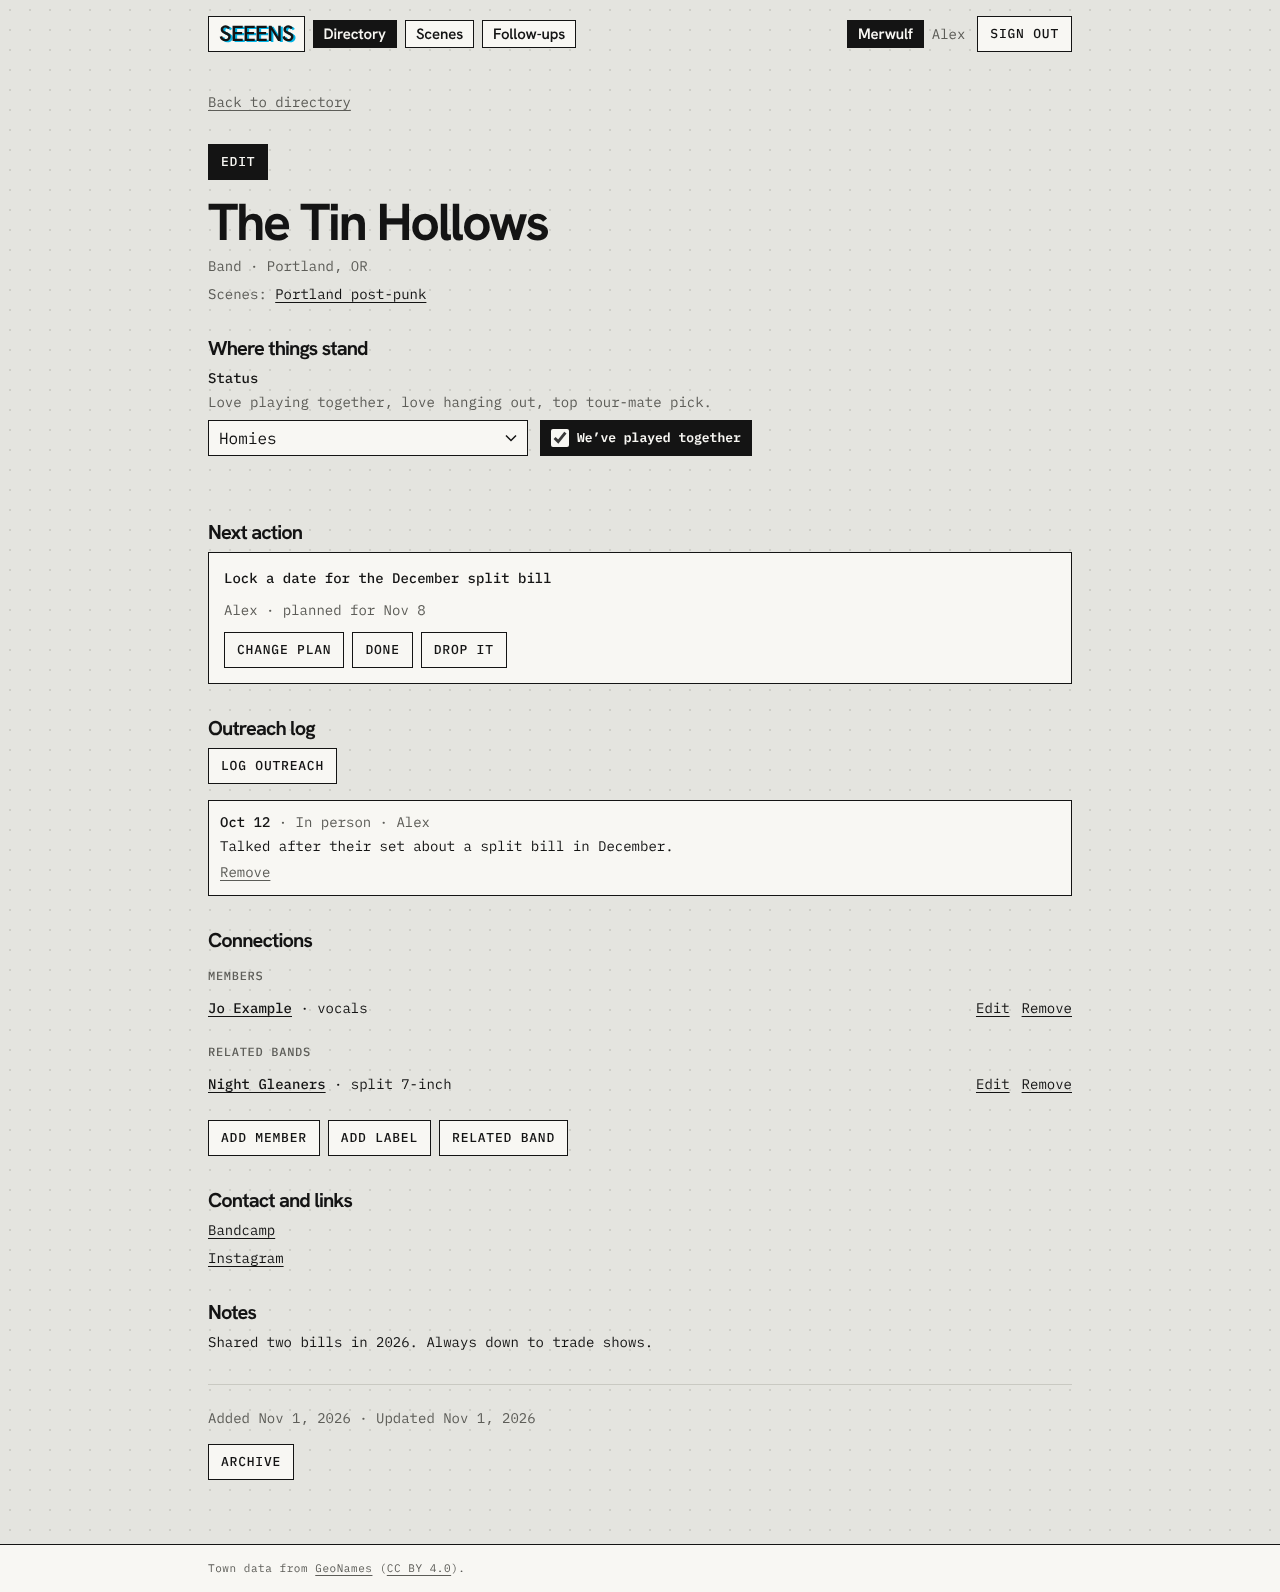
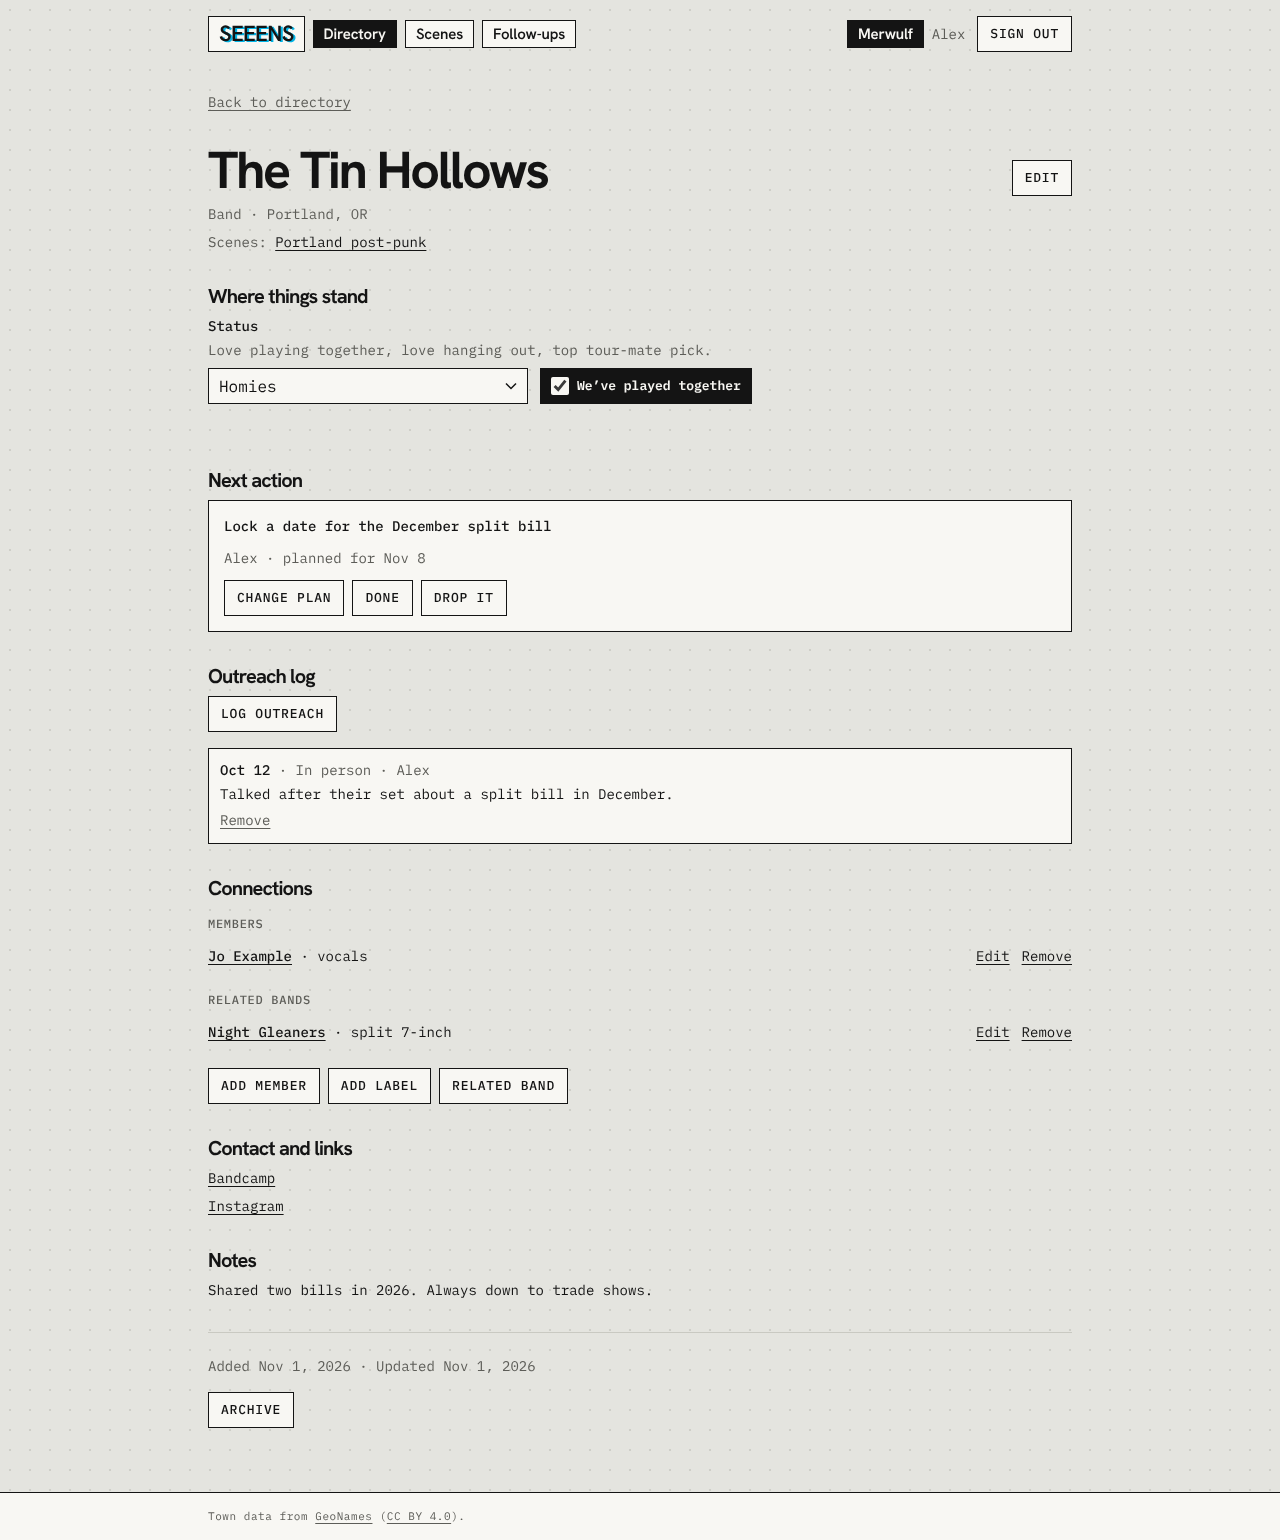
Link types with URL detection; Edit on the title row
- Link rows are URL, Link type, and (for Other) Label. Types: Website,
  Instagram, Bandcamp, Subvert, Spotify, YouTube, SoundCloud, Other.
  The type fills in from the URL until someone picks one.
- Labels stay plain text in the database: known names map to their type
  in any case, anything else opens as Other with its text kept. No
  migration; export unchanged. Unit tests cover detection and mapping.
- Edit moves to the right of the title in the secondary style, like the
  Directory and Scenes headers.

Claude-Session: https://claude.ai/code/session_01SMP6NnJD4WfxjNFgksjBuR

diff --git a/src/components/connection-form.tsx b/src/components/connection-form.tsx
@@ -5,6 +5,7 @@ import { unstable_rethrow } from "next/navigation";
 import Link from "next/link";
 import { PlaceField } from "@/components/place-field";
 import { Combobox } from "@/components/combobox";
+import { LINK_TYPES, detectLinkType, splitLinkLabel, type LinkType } from "@/lib/connections/link-types";
 import { useActionState, useState } from "react";
 import { readForm, type ConnectionFormState, type ConnectionFormValues } from "@/lib/connections/form";
 import {
@@ -82,8 +83,14 @@ function FormBody({
 }) {
   const { values: v, errors } = state;
   const [links, setLinks] = useState(() =>
-    (v.links.length ? v.links : [{ label: "", url: "" }]).map((l, i) => ({ ...l, key: i })),
+    (v.links.length ? v.links : [{ label: "", url: "" }]).map((l, i) => {
+      const { type, custom } = splitLinkLabel(l.label);
+      // Untyped links pick up a type from their URL until someone chooses one.
+      return { key: i, url: l.url, type: type || detectLinkType(l.url) || "", custom, auto: !type };
+    }),
   );
+  const updateLink = (key: number, patch: Partial<(typeof links)[number]>) =>
+    setLinks((ls) => ls.map((l) => (l.key === key ? { ...l, ...patch } : l)));
   const [nextKey, setNextKey] = useState(links.length);
   const [kind, setKind] = useState(v.kind === "person" ? "person" : "group");
   const [isUs, setIsUs] = useState(v.isUs);
@@ -285,29 +292,59 @@ function FormBody({
           <legend className="text-sm font-medium">Links</legend>
           {links.map((link, i) => {
             const err = errors.linkUrls?.[i];
+            const other = link.type === "Other";
+            const n = <span className="sr-only"> for link {i + 1}</span>;
             return (
-              <div key={link.key} className="panel grid gap-2 p-3 sm:grid-cols-[1fr_2fr_auto] sm:items-end">
-                <Field id={`c-link_label_${link.key}`} label={`Link ${i + 1} label`}>
-                  <input {...noAutofill}
-                    id={`c-link_label_${link.key}`}
-                    name="link_label"
-                    defaultValue={link.label}
-                    placeholder="Bandcamp"
-                    className="field"
-                  />
-                </Field>
-                <Field id={`c-link_url_${link.key}`} label={`Link ${i + 1} URL`} error={err}>
+              <div
+                key={link.key}
+                className={`panel grid gap-2 p-3 sm:items-end ${other ? "sm:grid-cols-[2fr_1fr_1fr_auto]" : "sm:grid-cols-[2fr_1fr_auto]"}`}
+              >
+                <Field id={`c-link_url_${link.key}`} label={<>URL{n}</>} error={err}>
                   <input {...noAutofill}
                     id={`c-link_url_${link.key}`}
                     name="link_url"
                     type="url"
                     inputMode="url"
-                    defaultValue={link.url}
+                    value={link.url}
+                    onChange={(e) => {
+                      const url = e.target.value;
+                      updateLink(link.key, link.auto ? { url, type: detectLinkType(url) ?? "" } : { url });
+                    }}
                     placeholder="yourband.bandcamp.com"
                     className="field"
                     {...invalid(`c-link_url_${link.key}`, err)}
                   />
                 </Field>
+                <Field id={`c-link_type_${link.key}`} label={<>Link type{n}</>}>
+                  <select
+                    id={`c-link_type_${link.key}`}
+                    name="link_type"
+                    value={link.type}
+                    onChange={(e) => updateLink(link.key, { type: e.target.value as LinkType | "", auto: false })}
+                    className="field"
+                  >
+                    <option value="">Choose one</option>
+                    {LINK_TYPES.map((t) => (
+                      <option key={t} value={t}>
+                        {t}
+                      </option>
+                    ))}
+                  </select>
+                </Field>
+                {other ? (
+                  <Field id={`c-link_label_${link.key}`} label={<>Label{n}</>}>
+                    <input {...noAutofill}
+                      id={`c-link_label_${link.key}`}
+                      name="link_label"
+                      value={link.custom}
+                      onChange={(e) => updateLink(link.key, { custom: e.target.value })}
+                      placeholder="Merch store"
+                      className="field"
+                    />
+                  </Field>
+                ) : (
+                  <input type="hidden" name="link_label" value="" />
+                )}
                 <button
                   type="button"
                   className="button-secondary"
@@ -323,7 +360,7 @@ function FormBody({
             type="button"
             className="button-secondary self-start"
             onClick={() => {
-              setLinks((ls) => [...ls, { label: "", url: "", key: nextKey }]);
+              setLinks((ls) => [...ls, { key: nextKey, url: "", type: "", custom: "", auto: true }]);
               setNextKey((k) => k + 1);
             }}
           >
@@ -388,7 +425,7 @@ function Field({
   children,
 }: {
   id: string;
-  label: string;
+  label: React.ReactNode;
   hint?: string;
   error?: string;
   children: React.ReactNode;

diff --git a/src/lib/connections/link-types.ts b/src/lib/connections/link-types.ts
@@ -1,0 +1,53 @@
+// Link types are a fixed list in the app; the database keeps plain label
+// text, so adding a type needs no migration. "Other" carries its own label.
+export const LINK_TYPES = [
+  "Website",
+  "Instagram",
+  "Bandcamp",
+  "Subvert",
+  "Spotify",
+  "YouTube",
+  "SoundCloud",
+  "Other",
+] as const;
+export type LinkType = (typeof LINK_TYPES)[number];
+
+const HOSTS: [RegExp, LinkType][] = [
+  [/(^|\.)instagram\.com$/, "Instagram"],
+  [/(^|\.)bandcamp\.com$/, "Bandcamp"],
+  [/(^|\.)subvert\.fm$/, "Subvert"],
+  [/(^|\.)spotify\.com$/, "Spotify"],
+  [/(^|\.)(youtube\.com|youtu\.be)$/, "YouTube"],
+  [/(^|\.)soundcloud\.com$/, "SoundCloud"],
+];
+
+// The type a URL most likely is, or null while it doesn't look like one yet.
+export function detectLinkType(raw: string): LinkType | null {
+  const text = raw.trim();
+  if (!text) return null;
+  let host: string;
+  try {
+    host = new URL(/^[a-z][a-z0-9+.-]*:\/\//i.test(text) ? text : `https://${text}`).hostname.toLowerCase();
+  } catch {
+    return null;
+  }
+  if (!host.includes(".")) return null;
+  return HOSTS.find(([re]) => re.test(host))?.[1] ?? "Website";
+}
+
+// Stored label → what the form shows. Known names match in any case;
+// anything else is Other with its text kept.
+export function splitLinkLabel(label: string): { type: LinkType | ""; custom: string } {
+  const text = label.trim();
+  if (!text) return { type: "", custom: "" };
+  const known = LINK_TYPES.find((t) => t !== "Other" && t.toLowerCase() === text.toLowerCase());
+  if (known) return { type: known, custom: "" };
+  if (text.toLowerCase() === "other") return { type: "Other", custom: "" };
+  return { type: "Other", custom: text };
+}
+
+// Form → stored label.
+export function joinLinkLabel(type: string, custom: string): string {
+  if (type === "Other") return custom.trim() || "Other";
+  return (LINK_TYPES as readonly string[]).includes(type) ? type : "";
+}

diff --git a/src/lib/connections/link-types.test.ts b/src/lib/connections/link-types.test.ts
@@ -1,0 +1,31 @@
+import { test } from "node:test";
+import assert from "node:assert/strict";
+import { detectLinkType, joinLinkLabel, splitLinkLabel } from "./link-types.ts";
+
+test("detects link types from URLs", () => {
+  assert.equal(detectLinkType("https://www.instagram.com/gab_pdx/"), "Instagram");
+  assert.equal(detectLinkType("grownassbitch.bandcamp.com"), "Bandcamp");
+  assert.equal(detectLinkType("subvert.fm/someband"), "Subvert");
+  assert.equal(detectLinkType("https://open.spotify.com/artist/x"), "Spotify");
+  assert.equal(detectLinkType("youtu.be/abc"), "YouTube");
+  assert.equal(detectLinkType("m.soundcloud.com/x"), "SoundCloud");
+  assert.equal(detectLinkType("linktr.ee/band"), "Website");
+  assert.equal(detectLinkType("notinstagram.com"), "Website");
+  assert.equal(detectLinkType(""), null);
+  assert.equal(detectLinkType("band"), null);
+});
+
+test("splits stored labels into type and custom text", () => {
+  assert.deepEqual(splitLinkLabel("bandcamp"), { type: "Bandcamp", custom: "" });
+  assert.deepEqual(splitLinkLabel("Merch store"), { type: "Other", custom: "Merch store" });
+  assert.deepEqual(splitLinkLabel(""), { type: "", custom: "" });
+  assert.deepEqual(splitLinkLabel("Other"), { type: "Other", custom: "" });
+});
+
+test("joins type and custom text back into a label", () => {
+  assert.equal(joinLinkLabel("Instagram", "ignored"), "Instagram");
+  assert.equal(joinLinkLabel("Other", " Merch store "), "Merch store");
+  assert.equal(joinLinkLabel("Other", ""), "Other");
+  assert.equal(joinLinkLabel("", ""), "");
+  assert.equal(joinLinkLabel("Myspace", ""), "");
+});

diff --git a/src/lib/connections/form.ts b/src/lib/connections/form.ts
@@ -8,6 +8,7 @@ import {
   type GroupType,
   type PersonRole,
 } from "./labels";
+import { joinLinkLabel } from "./link-types";
 
 // Raw form values, kept as strings so a failed save can repopulate the form.
 export type ConnectionFormValues = {
@@ -83,7 +84,9 @@ const str = (fd: FormData, key: string) => String(fd.get(key) ?? "").trim();
 const optional = (v: string) => (v === "" ? null : v);
 
 export function readForm(fd: FormData): ConnectionFormValues {
-  const labels = fd.getAll("link_label").map((v) => String(v).trim());
+  const types = fd.getAll("link_type").map(String);
+  const customs = fd.getAll("link_label").map((v) => String(v).trim());
+  const labels = types.map((t, i) => joinLinkLabel(t, customs[i] ?? ""));
   const urls = fd.getAll("link_url").map((v) => String(v).trim());
   return {
     name: str(fd, "name"),
@@ -167,7 +170,7 @@ export function validate(values: ConnectionFormValues):
   const linkUrls: Record<number, string> = {};
   values.links.forEach((link, i) => {
     if (!link.url) {
-      if (link.label) linkUrls[i] = "Add a URL or clear this label.";
+      if (link.label) linkUrls[i] = "Add a URL or remove this link.";
       return;
     }
     const url = normalizeUrl(link.url);

diff --git a/src/app/(app)/connections/[id]/page.tsx b/src/app/(app)/connections/[id]/page.tsx
@@ -60,12 +60,13 @@ async function Connection({
       ) : null}
 
       <header className="flex flex-col gap-2">
-        <div className="pb-2">
-          <Link href={`/connections/${c.id}/edit`} className="button-primary">
+        {/* Same layout as the Directory and Scenes headers: action on the right. */}
+        <div className="flex flex-wrap items-end justify-between gap-3">
+          <h1 className="min-w-0 text-4xl font-bold sm:text-[52px] sm:leading-[52px] break-words">{c.name}</h1>
+          <Link href={`/connections/${c.id}/edit`} className="button-secondary">
             Edit<span className="sr-only"> {c.name}</span>
           </Link>
         </div>
-        <h1 className="text-4xl font-bold sm:text-[52px] sm:leading-[52px] break-words">{c.name}</h1>
         <p className="text-muted">
           {[formatType(c), place].filter(Boolean).join(" · ")}
         </p>
